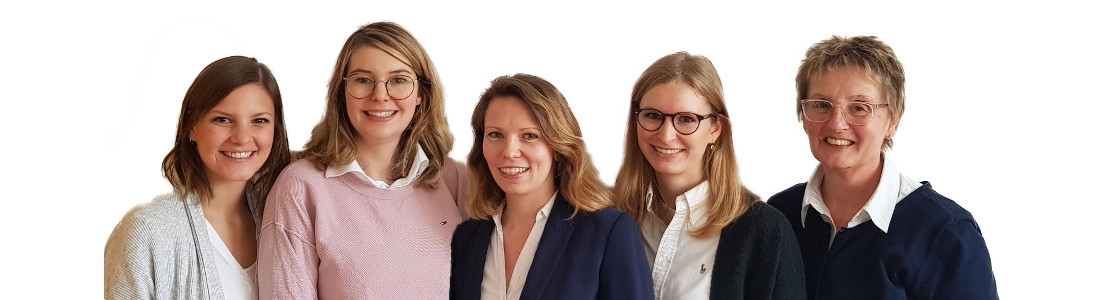
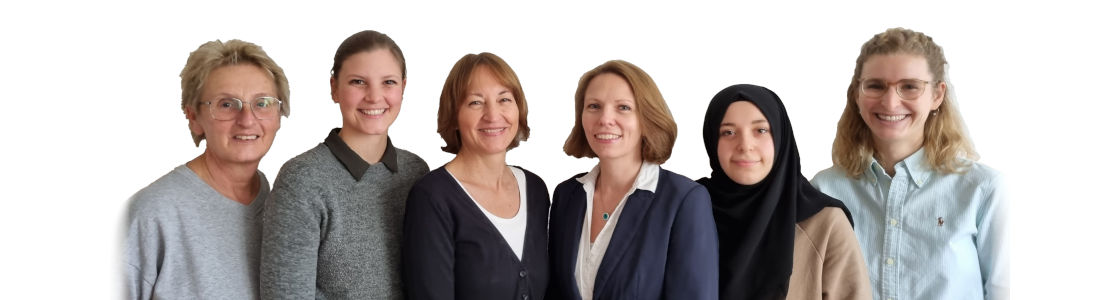
Change team according to instructions

diff --git a/team.html b/team.html
@@ -82,6 +82,7 @@
 									<li class="core_area">AVWS</li>
 									<li class="core_area">myofunktionelle St&ouml;rungen</li>
 									<li class="core_area">Sprachentwicklungsst&ouml;rungen</li>
+									<li class="core_area">Fachtherapeut f&uuml;r unterst&uuml;tzte Kommunikation (in Ausbildung)</li>
 								</ul>
 							</p>
 						</div>
@@ -112,23 +113,49 @@
 
 					<div class="person">
 						<div class="photo">
-							<img src="files/anonymous.png" alt="L. Keller">
+							<img src="files/a_stockinger.png" alt="A. Stockinger">
 						</div>
 						<div class="person_desc">
 							<p class="person_desc">
-								<div class="name">L. Keller</div>
+								<div class="name">A. Stockinger</div>
 							<br />
 								Staatlich gepr&uuml;fte Logop&auml;din
 							<br />
-								Examen in M&uuml;nchen: 2018
+								Examen in M&uuml;nchen: 2009
 							</p>
 							<p class="person_desc core_area">
 								<div class="core_area">Schwerpunkte:</div>
 								<ul class="core_area">
-									<li class="core_area">LRS</li>
-									<li class="core_area">CI-H&ouml;rtraining</li>
+									<li class="core_area">Stimmstörungen/Dysphonie</li>
 									<li class="core_area">Sprachentwicklungsst&ouml;rung</li>
+									<li class="core_area">Aphasie</li>
 								</ul>
+							</p>
+						</div>
+					</div>	
+
+					<div class="person">
+						<div class="photo">
+							<img src="files/r_bastuerk.png" alt="R. Bast&auml;rk">
+						</div>
+						<div class="person_desc">
+							<p class="person_desc">
+								<div class="name">R. Bast&auml;rk</div>
+							<br />
+								Staatlich gepr&uuml;fte Logop&auml;din
+							<br />
+								Examen in M&uuml;nchen: 2021
+							</p>
+							<p class="person_desc core_area">
+								<div class="core_area">Besonderheit:</div>
+								<ul class="core_area">
+									<li class="core_area">Therapien auch auf Türkisch (muttersprachlich)</li>
+								</ul>
+								<div class="core_area">Schwerpunkte:</div>
+								<ul class="core_area">
+									<li class="core_area">Late talker</li>
+									<li class="core_area">Sprachentwicklungsst&ouml;rung</li>
+								</ul>								
 							</p>
 						</div>
 					</div>	
